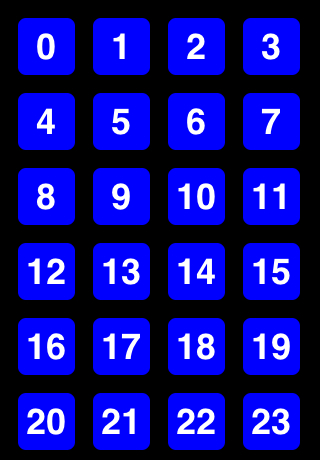
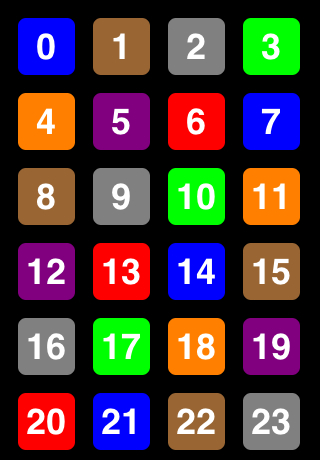
Use multiple colors

diff --git a/Classes/TilesViewController.m b/Classes/TilesViewController.m
@@ -39,9 +39,19 @@
 
 
 - (void)createTiles {
-    int row, col;
-    for (row = 0; row < TILE_ROWS; ++row) {
-        for (col = 0; col < TILE_COLUMNS; ++col) {
+    UIColor *colors[] = {
+        [UIColor blueColor],
+        [UIColor brownColor],
+        [UIColor grayColor],
+        [UIColor greenColor],
+        [UIColor orangeColor],
+        [UIColor purpleColor],
+        [UIColor redColor],
+    };
+    int colorCount = sizeof(colors) / sizeof(colors[0]);
+    
+    for (int row = 0; row < TILE_ROWS; ++row) {
+        for (int col = 0; col < TILE_COLUMNS; ++col) {
             int index = (row * TILE_COLUMNS) + col;
             
             tileFrame[index] = CGRectMake(TILE_MARGIN + col * (TILE_MARGIN + TILE_WIDTH),
@@ -51,7 +61,7 @@
             Tile *tile = [[Tile alloc] init];
             tile.tileIndex = index;
             tile.frame = tileFrame[index];
-            tile.backgroundColor = [UIColor blueColor].CGColor;
+            tile.backgroundColor = colors[index % colorCount].CGColor;
             tile.delegate = self;
             tile.cornerRadius = 8;
             [self.view.layer addSublayer:tile];

diff --git a/Classes/Tile.m b/Classes/Tile.m
@@ -7,6 +7,7 @@
 //
 
 #import "Tile.h"
+#import "NSString+Additions.h"
 
 
 @implementation Tile
@@ -20,19 +21,11 @@
 
 
 - (void)draw {
-    
+    NSString *s = [NSString stringWithFormat:@"%d", (int)tileIndex];
+
     [[UIColor whiteColor] set];    
     UIFont *font = [UIFont boldSystemFontOfSize:36];
-    
-    NSString *s = [NSString stringWithFormat:@"%d", (int)tileIndex];
-    
-    CGSize size = [s sizeWithFont:font];
-    CGRect tileBounds = self.bounds;
-    
-    CGRect textBounds = CGRectMake(tileBounds.origin.x + (tileBounds.size.width - size.width) / 2,
-                                   tileBounds.origin.y + (tileBounds.size.height - size.height) / 2,
-                                   size.width, size.height);
-    [s drawInRect:textBounds withFont:font];    
+    [s drawCenteredInRect:self.bounds withFont:font];
 }
 
 

diff --git a/Classes/NSString+Additions.m b/Classes/NSString+Additions.m
@@ -1,0 +1,25 @@
+//
+//  NSString+Additions.m
+//  Tiles
+//
+//  Created by Kristopher Johnson on 2/4/10.
+//  Copyright 2010 Capable Hands Technologies, Inc.. All rights reserved.
+//
+
+#import "NSString+Additions.h"
+
+
+@implementation NSString (Additions)
+
+
+- (void)drawCenteredInRect:(CGRect)rect withFont:(UIFont *)font {
+    CGSize size = [self sizeWithFont:font];
+    
+    CGRect textBounds = CGRectMake(rect.origin.x + (rect.size.width - size.width) / 2,
+                                   rect.origin.y + (rect.size.height - size.height) / 2,
+                                   size.width, size.height);
+    [self drawInRect:textBounds withFont:font];    
+}
+
+
+@end

diff --git a/Classes/TilesViewController.h b/Classes/TilesViewController.h
@@ -16,10 +16,10 @@
 
 @interface TilesViewController : UIViewController {
 @private
-    CGRect  tileFrame[TILE_COUNT];
-    Tile*   heldTile;
-    CGPoint touchStartLocation;
-    CGPoint heldTileStartPosition;
+    CGRect   tileFrame[TILE_COUNT];
+    Tile    *heldTile;
+    CGPoint  touchStartLocation;
+    CGPoint  heldTileStartPosition;
 }
 
 @end

diff --git a/Classes/NSString+Additions.h b/Classes/NSString+Additions.h
@@ -1,0 +1,16 @@
+//
+//  NSString+Additions.h
+//  Tiles
+//
+//  Created by Kristopher Johnson on 2/4/10.
+//  Copyright 2010 Capable Hands Technologies, Inc.. All rights reserved.
+//
+
+#import <Foundation/Foundation.h>
+
+
+@interface NSString (Additions)
+
+- (void)drawCenteredInRect:(CGRect)rect withFont:(UIFont *)font;
+
+@end

diff --git a/Classes/Tile.h b/Classes/Tile.h
@@ -11,10 +11,10 @@
 
 
 @interface Tile : CALayer {
-    NSInteger tileIndex;    
+    int tileIndex;    
 }
 
-@property (nonatomic) NSInteger tileIndex;
+@property (nonatomic) int tileIndex;
 
 - (void)draw;
 
